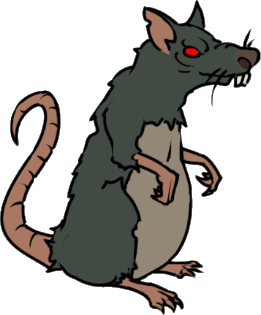
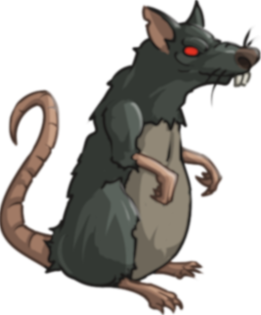
hop hop hop

Changed region(s): [[0.0, 0.0, 1.0, 1.0], [0.7356, 0.2, 0.9808, 0.3429]]

diff --git a/src/game/battle/entities/unit.rs b/src/game/battle/entities/unit.rs
@@ -1,4 +1,5 @@
 use bevy::prelude::*;
+use bevy_spine::{Spine, SpineBundle, SpineReadyEvent, SpineSet};
 
 use crate::{AddFixedEvent, AssetLibrary, EventSet};
 
@@ -19,6 +20,7 @@ impl Plugin for UnitPlugin {
                     .in_set(UnitSystem::Spawn)
                     .after(EventSet::<UnitSpawnEvent>::Sender),
             )
+            .add_system(unit_spine_ready.in_set(SpineSet::OnReady))
             .add_system(
                 unit_update
                     .in_schedule(CoreSchedule::FixedUpdate)
@@ -40,8 +42,8 @@ fn unit_spawn(
 ) {
     for _ in spawn_events.iter() {
         commands.spawn((
-            SpriteBundle {
-                texture: asset_library.image_rat.clone(),
+            SpineBundle {
+                skeleton: asset_library.spine_rat.clone(),
                 transform: Transform::from_xyz(-300., 0., 0.)
                     .with_scale(Vec2::splat(0.4).extend(1.)),
                 ..Default::default()
@@ -51,13 +53,21 @@ fn unit_spawn(
     }
 }
 
-fn unit_update(
-    mut unit_query: Query<&mut Transform, With<Unit>>,
-    time: Res<FixedTime>,
-    t: Res<Time>,
+fn unit_spine_ready(
+    mut spine_ready_events: EventReader<SpineReadyEvent>,
+    mut spine_query: Query<&mut Spine, With<Unit>>,
 ) {
+    for spine_ready_event in spine_ready_events.iter() {
+        if let Ok(mut spine) = spine_query.get_mut(spine_ready_event.entity) {
+            let _ = spine
+                .animation_state
+                .set_animation_by_name(0, "animation", true);
+        }
+    }
+}
+
+fn unit_update(mut unit_query: Query<&mut Transform, With<Unit>>, time: Res<FixedTime>) {
     for mut unit_transform in unit_query.iter_mut() {
         unit_transform.translation.x += time.period.as_secs_f32() * 100.;
-        unit_transform.rotation = Quat::from_rotation_z((t.elapsed_seconds() * 19.).sin() * 0.05);
     }
 }

diff --git a/src/asset_library.rs b/src/asset_library.rs
@@ -1,11 +1,13 @@
 use bevy::prelude::*;
 use bevy_kira_audio::AudioSource;
+use bevy_spine::SkeletonData;
 
 #[derive(Resource, Default)]
 pub struct AssetLibrary {
     pub font_placeholder: Handle<Font>,
     pub sound_placeholder: Handle<AudioSource>,
     pub image_rat: Handle<Image>,
+    pub spine_rat: Handle<SkeletonData>,
 }
 
 pub struct AssetLibraryPlugin;
@@ -20,8 +22,17 @@ impl Plugin for AssetLibraryPlugin {
     }
 }
 
-fn asset_library_load(mut asset_library: ResMut<AssetLibrary>, asset_server: Res<AssetServer>) {
+fn asset_library_load(
+    mut asset_library: ResMut<AssetLibrary>,
+    mut skeletons: ResMut<Assets<SkeletonData>>,
+    asset_server: Res<AssetServer>,
+) {
     asset_library.font_placeholder = asset_server.load("fonts/FiraSans-Bold.ttf");
     asset_library.sound_placeholder = asset_server.load("audio/flying.ogg");
     asset_library.image_rat = asset_server.load("images/rat.png");
+
+    asset_library.spine_rat = skeletons.add(SkeletonData::new_from_binary(
+        asset_server.load("spines/rat_test/skeleton.skel"),
+        asset_server.load("spines/rat_test/rat_test.atlas"),
+    ));
 }

diff --git a/src/common/plugins.rs b/src/common/plugins.rs
@@ -1,5 +1,6 @@
 use bevy::{app::PluginGroupBuilder, prelude::*};
 use bevy_audio_plus::AudioPlusPlugin;
+use bevy_spine::SpinePlugin;
 
 use crate::ForceRatioPlugin;
 
@@ -10,6 +11,7 @@ impl PluginGroup for CommonPlugins {
         let mut group = PluginGroupBuilder::start::<Self>();
 
         group = group.add(AudioPlusPlugin);
+        group = group.add(SpinePlugin);
 
         group = group.add(ForceRatioPlugin);
 
